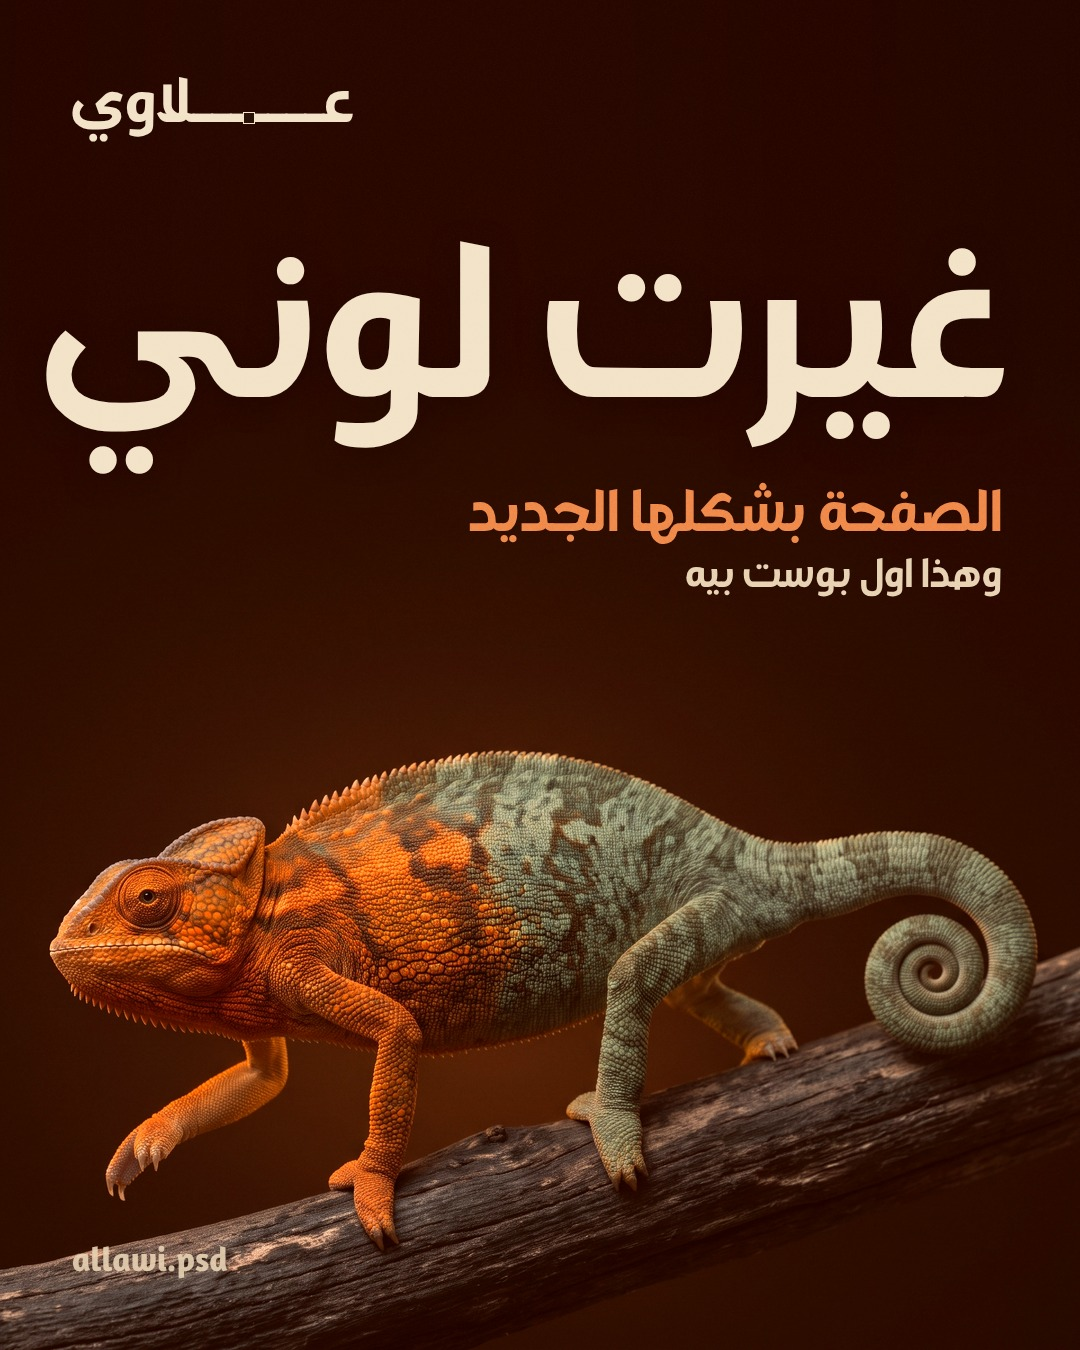
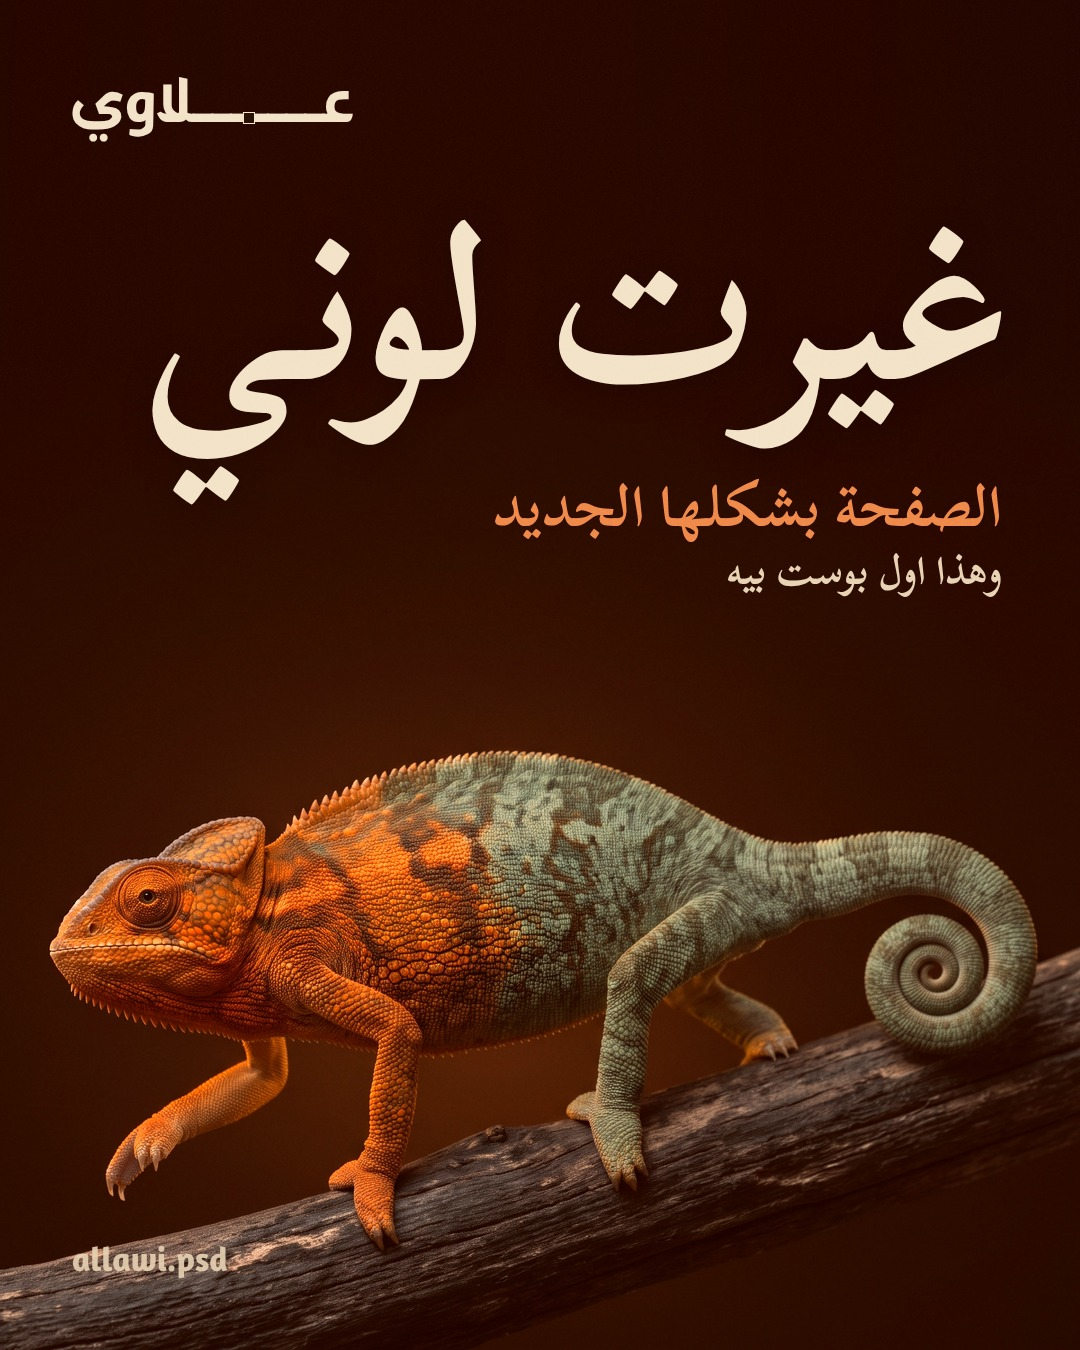
Rebrand carousel: Scheherazade New for headlines and lines

Changed region(s): [[0.4278, 0.1556, 0.9472, 0.4667], [0.0306, 0.1556, 0.4583, 0.3733], [0.5806, 0.1867, 0.6417, 0.2178]]

diff --git a/marketing/rebrand/post-3.html b/marketing/rebrand/post-3.html
@@ -14,9 +14,12 @@
 
   h1 { position:absolute; right:70px; top:290px; font-size:168px; line-height:1.05; font-weight:400; color:#f3e3c8; direction:rtl; text-align:right;
     white-space:nowrap; text-shadow:0 6px 30px rgba(20,6,0,.35) }
-  .sub { position:absolute; right:78px; top:500px; width:900px; font-size:52px; line-height:1.4; color:#e8d3b4; direction:rtl; text-align:right }
+  .sub { position:absolute; right:78px; top:530px; width:900px; font-size:52px; line-height:1.4; color:#e8d3b4; direction:rtl; text-align:right }
   .sub b { font-weight:400; color:#f08a4b }
   .handle { position:absolute; left:72px; bottom:60px; font-size:34px; color:#e8d3b4; direction:ltr; opacity:.9 }
+  /* headline and lines in Scheherazade New Bold (SIL OFL), the logo stays in DG Sahabah */
+  @font-face { font-family: Scheherazade; src: url(fonts/ScheherazadeNew-700.ttf); }
+  h1, .sub { font-family: Scheherazade, serif; }
 </style>
 </head>
 <body>
@@ -28,7 +31,7 @@
 </div>
 <script>
 // the handle sits on the middle of the stretched kashida (same measuring as brand.html)
-document.fonts.load("200px Sahabah", 'علاوي').then(() => document.fonts.ready).then(() => {
+document.fonts.load("200px Sahabah", 'علاوي').then(() => document.fonts.load("200px Scheherazade", 'غيرت')).then(() => document.fonts.ready).then(() => {
   const c = document.createElement('canvas'); c.width = 400; c.height = 400;
   const x = c.getContext('2d'); x.font = '200px Sahabah'; x.fillText('ـــــ', 20, 250);
   const d = x.getImageData(150, 0, 1, 400).data; let lo = -1, hi = -1;

diff --git a/marketing/rebrand/post-1.html b/marketing/rebrand/post-1.html
@@ -17,6 +17,9 @@
   .sub { position:absolute; right:78px; top:470px; font-size:58px; line-height:1.3; color:#f08a4b; direction:rtl; text-align:right }
   .sub span { display:block; color:#e8d3b4; font-size:40px }
   .handle { position:absolute; left:72px; bottom:60px; font-size:34px; color:#e8d3b4; direction:ltr; opacity:.9 }
+  /* headline and lines in Scheherazade New Bold (SIL OFL), the logo stays in DG Sahabah */
+  @font-face { font-family: Scheherazade; src: url(fonts/ScheherazadeNew-700.ttf); }
+  h1, .sub { font-family: Scheherazade, serif; }
 </style>
 </head>
 <body>
@@ -28,7 +31,7 @@
 </div>
 <script>
 // the handle sits on the middle of the stretched kashida (same measuring as brand.html)
-document.fonts.load("200px Sahabah", 'علاوي').then(() => document.fonts.ready).then(() => {
+document.fonts.load("200px Sahabah", 'علاوي').then(() => document.fonts.load("200px Scheherazade", 'غيرت')).then(() => document.fonts.ready).then(() => {
   const c = document.createElement('canvas'); c.width = 400; c.height = 400;
   const x = c.getContext('2d'); x.font = '200px Sahabah'; x.fillText('ـــــ', 20, 250);
   const d = x.getImageData(150, 0, 1, 400).data; let lo = -1, hi = -1;

diff --git a/marketing/rebrand/post-2.html b/marketing/rebrand/post-2.html
@@ -17,6 +17,9 @@
   .sub { position:absolute; right:76px; top:372px; width:900px; font-size:52px; line-height:1.4; color:#e8d3b4; direction:rtl; text-align:right }
   .sub b { font-weight:400; color:#f08a4b }
   .handle { position:absolute; left:72px; bottom:60px; font-size:34px; color:#e8d3b4; direction:ltr; opacity:.9 }
+  /* headline and lines in Scheherazade New Bold (SIL OFL), the logo stays in DG Sahabah */
+  @font-face { font-family: Scheherazade; src: url(fonts/ScheherazadeNew-700.ttf); }
+  h1, .sub { font-family: Scheherazade, serif; }
 </style>
 </head>
 <body>
@@ -28,7 +31,7 @@
 </div>
 <script>
 // the handle sits on the middle of the stretched kashida (same measuring as brand.html)
-document.fonts.load("200px Sahabah", 'علاوي').then(() => document.fonts.ready).then(() => {
+document.fonts.load("200px Sahabah", 'علاوي').then(() => document.fonts.load("200px Scheherazade", 'غيرت')).then(() => document.fonts.ready).then(() => {
   const c = document.createElement('canvas'); c.width = 400; c.height = 400;
   const x = c.getContext('2d'); x.font = '200px Sahabah'; x.fillText('ـــــ', 20, 250);
   const d = x.getImageData(150, 0, 1, 400).data; let lo = -1, hi = -1;

diff --git a/CLAUDE.md b/CLAUDE.md
@@ -104,7 +104,8 @@ everything for Instagram (posts, reels, briefs, sound and transition packs) is i
 - Page rebrand (27 Oct, `marketing/rebrand`): the chameleon carousel's first simple build (DG Sahabah, one big
   headline line on the dark photo, an orange and a cream line under it) was the one the user called the best after
   20+ reworks; extra layers, scattered text, other fonts and layout changes all made it worse in his eyes. Start from
-  it and change only what he asks. Thmanyah fonts are personal use only, so not for his posts.
+  it and change only what he asks. Its headline and lines are now Scheherazade New Bold, which he picked from two
+  sheets of free fonts. Thmanyah fonts are personal use only, so not for his posts.
 - كاكتوس (`marketing/gift-cactus`) is a small project by a girl who crochets by hand, not a shop: never call it محل.
 - Before making props or images, ask whether to use AI image elements (the user generates them) or 3D (Blender);
   3D renders cost a lot of usage (20 Oct).

diff --git a/marketing/rebrand/README.md b/marketing/rebrand/README.md
@@ -58,3 +58,7 @@ Thmanyah, Markazi, a vivid red Cairo version) the user chose the first build as 
 `post-2.html`, `post-3.html` (restored from commit 97f6e5f), rendered to `out/post-<n>-slide<n>.jpg`. DG Sahabah, one
 big one-line headline over the dark graded photo, an orange line and a cream line under it, the wordmark top left,
 the handle bottom left. `carousel.html`, `vivid.html` and the test pages stay as the record of what was turned down.
+
+Font (27 Oct): after two sheets of free fonts (`out/font-pick.jpg`, `out/font-pick-2.jpg`, nothing else changed) the
+user picked Scheherazade New Bold (SIL OFL, free for commercial use) for the headline and lines of `post-1..3.html`;
+the logo and handle stay in DG Sahabah. Slide 3's line moved down 30 px so the ي dots of «دزلي» clear it.
